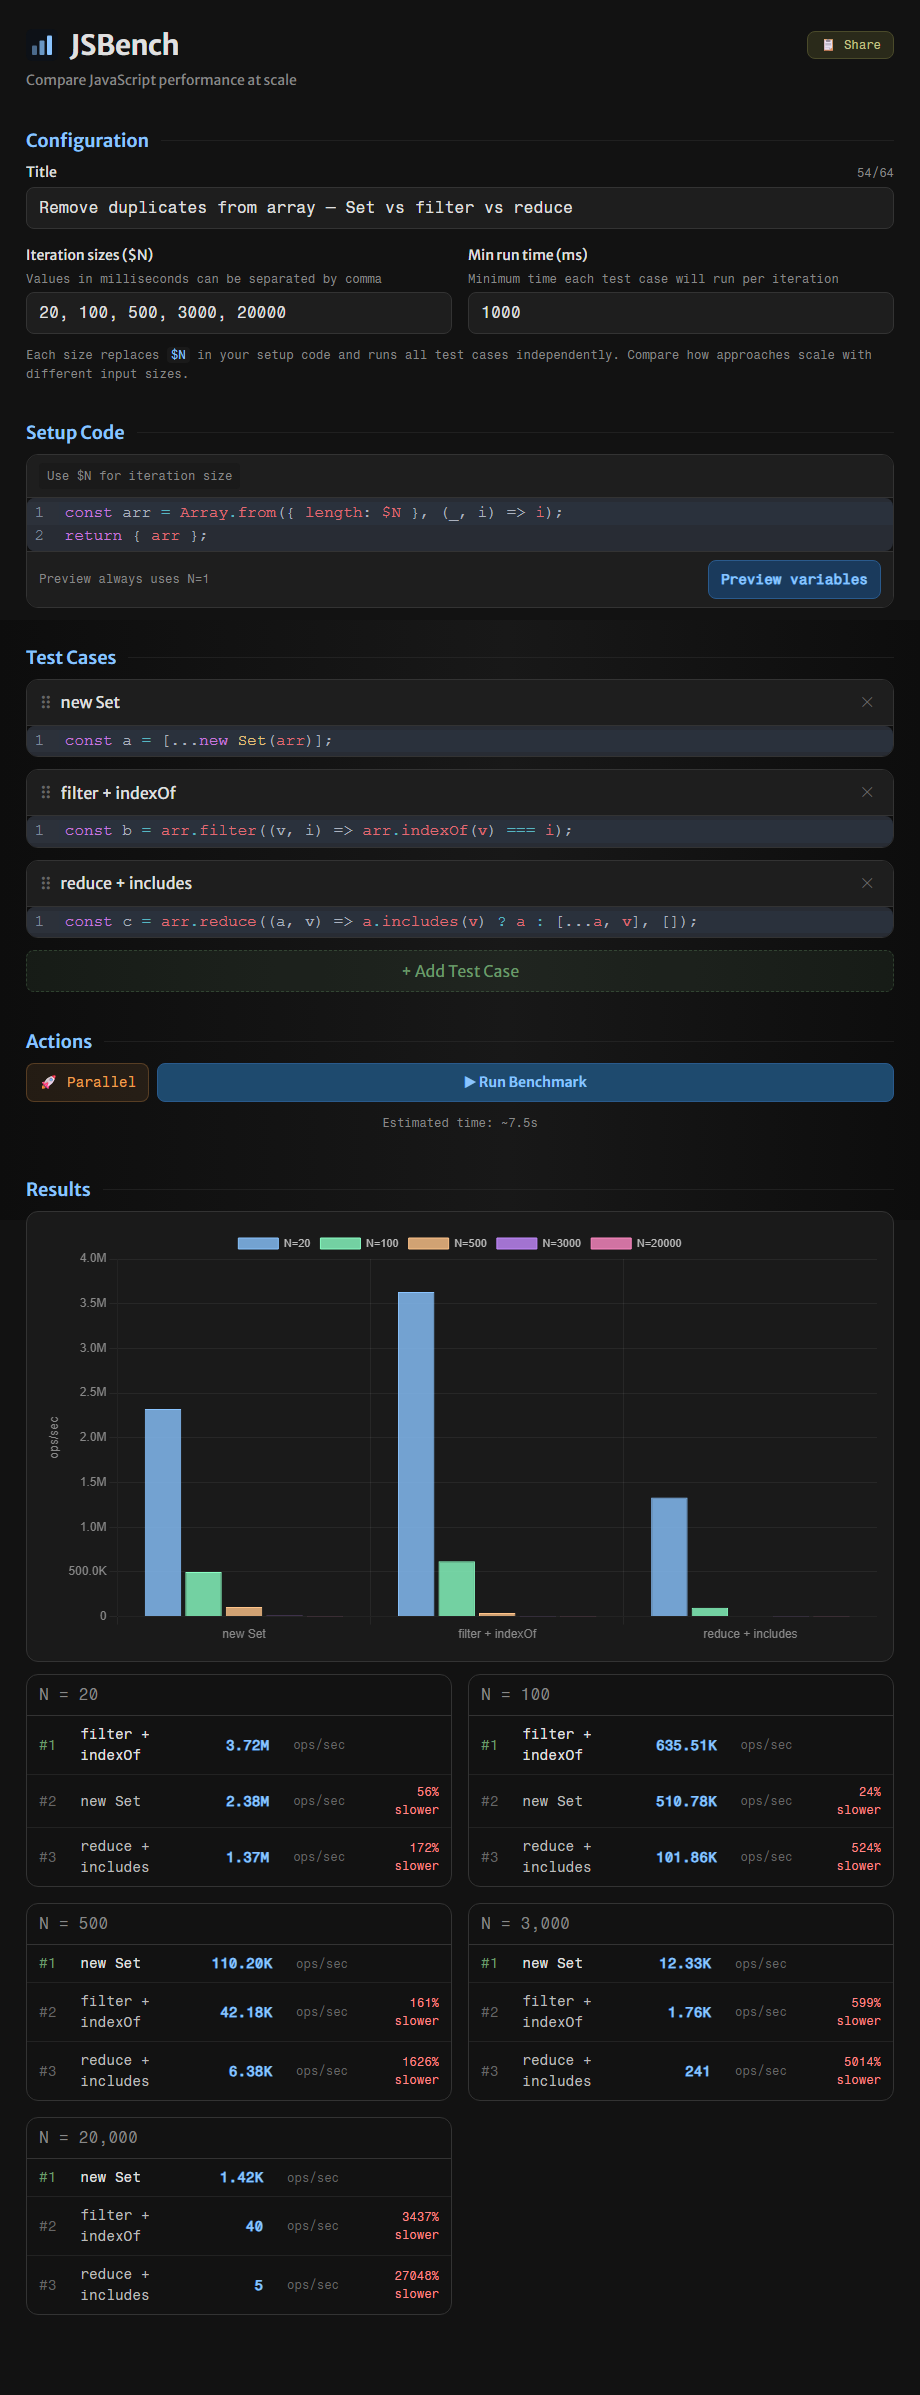
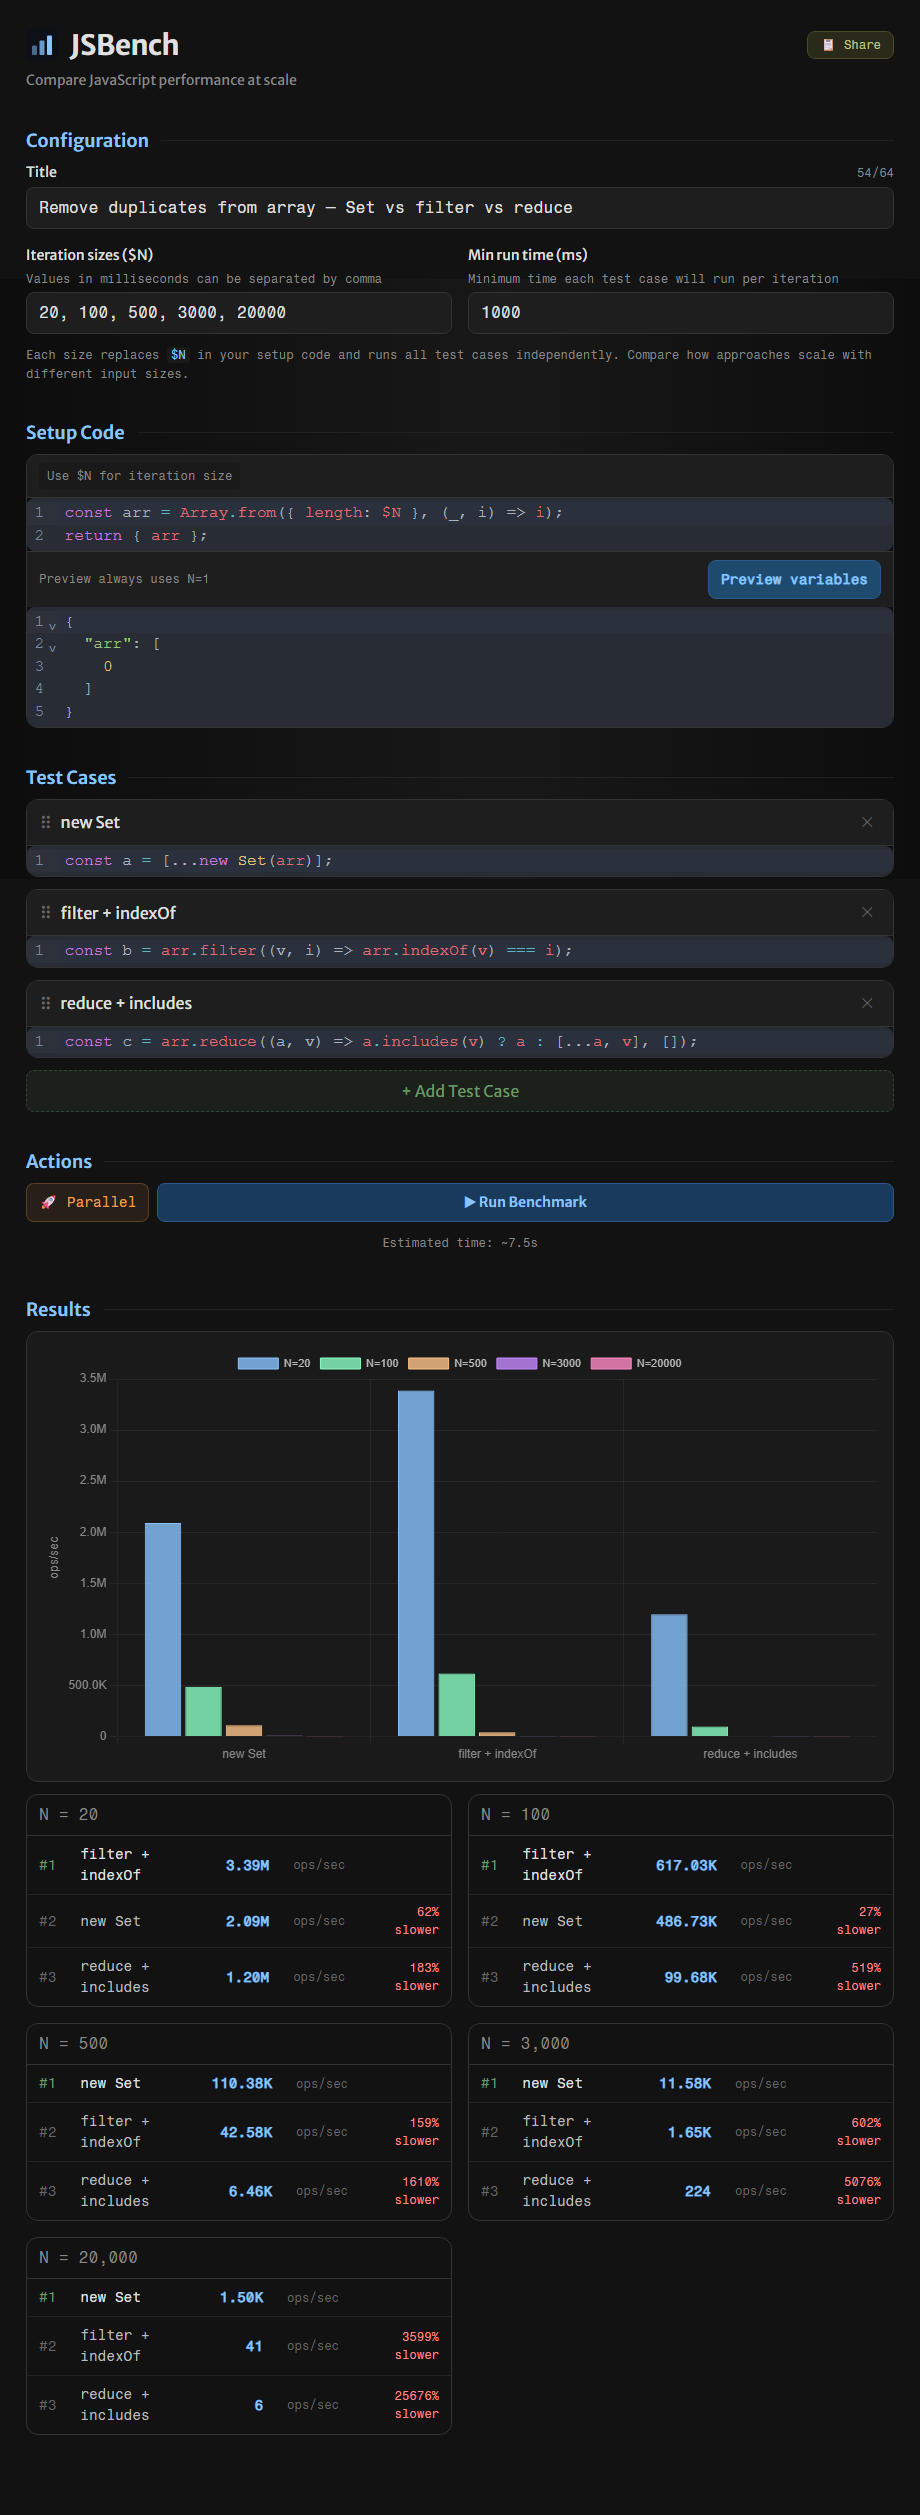
tests: fix

diff --git a/tests/screenshots.spec.js b/tests/screenshots.spec.js
@@ -15,5 +15,7 @@ test('screenshot: app', async ({ page }) => {
 	await page.click('button.run-btn');
 	await page.waitForSelector('.group-table', { timeout: 120000 });
 	await page.waitForTimeout(500);
+	await page.click('button.preview-btn');
+	await page.waitForTimeout(500);
 	await page.screenshot({ path: SCREENSHOT_RESULTS, fullPage: true });
 });

diff --git a/tests/benchmark.spec.js b/tests/benchmark.spec.js
@@ -170,7 +170,7 @@ test('parallel toggle enables parallel mode and completes benchmark', async ({ p
 	await page.waitForSelector('button.run-btn');
 	await page.waitForTimeout(500);
 
-	const toggle = page.locator('.parallel-toggle');
+	const toggle = page.locator('.mode-btn');
 	await toggle.click();
 	await expect(toggle).toHaveClass(/active/);
 
